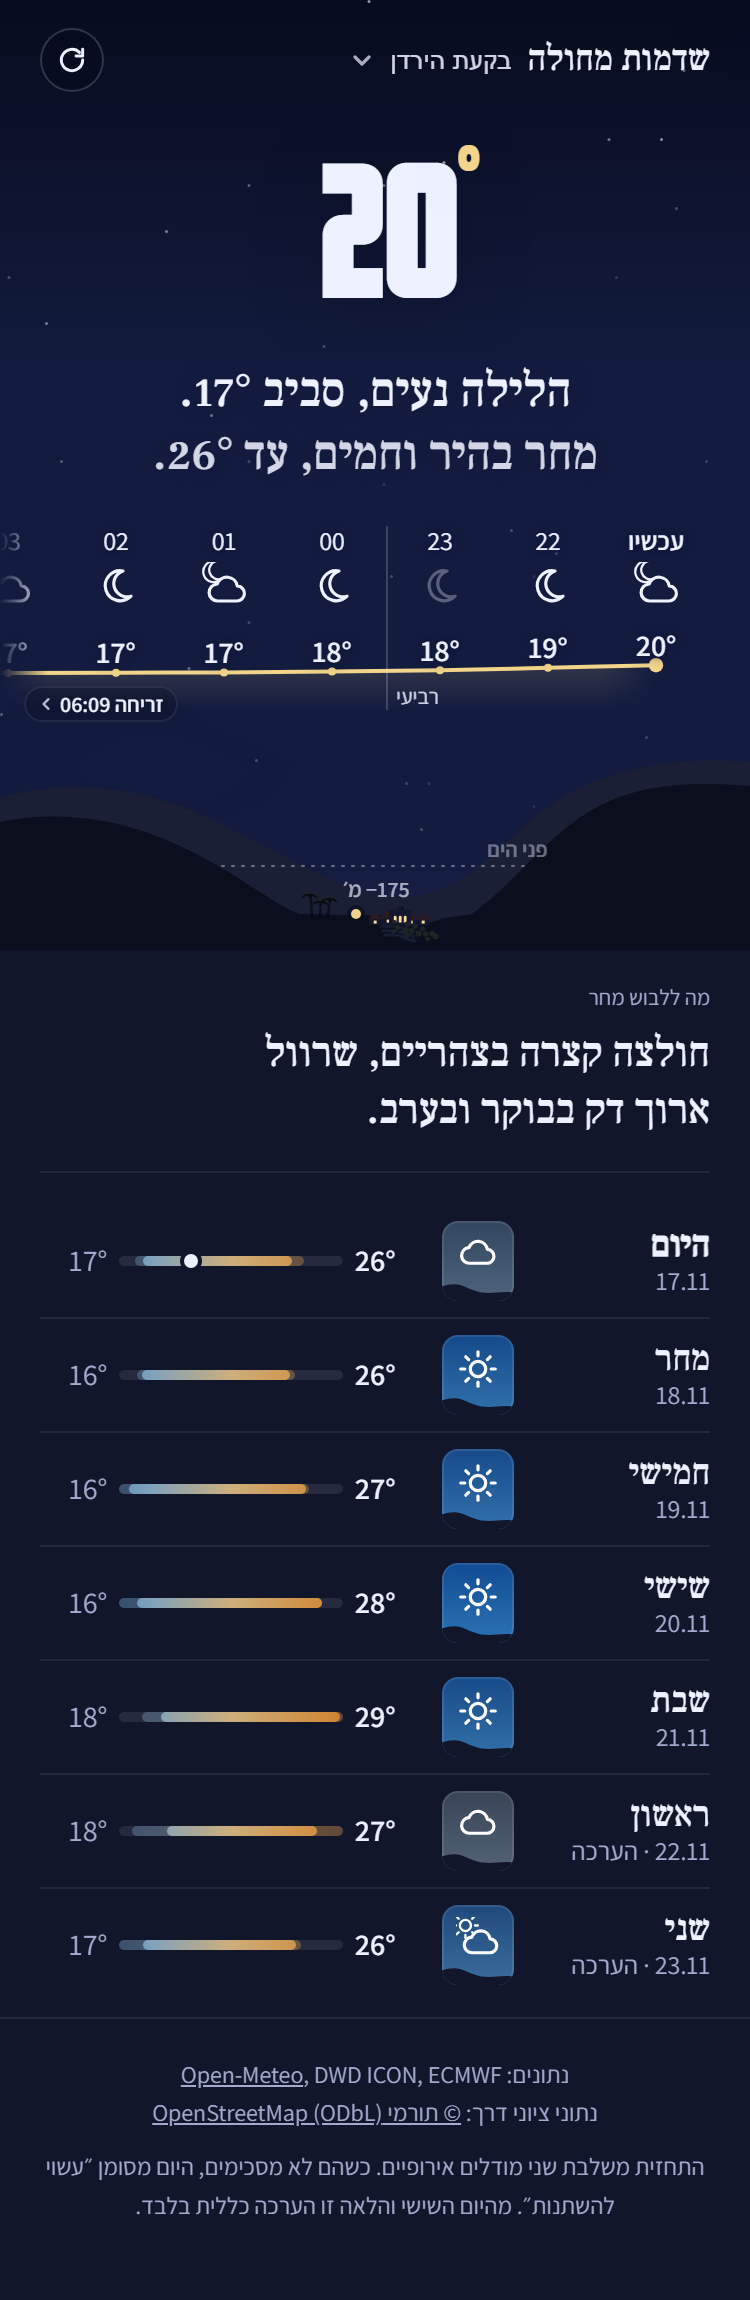
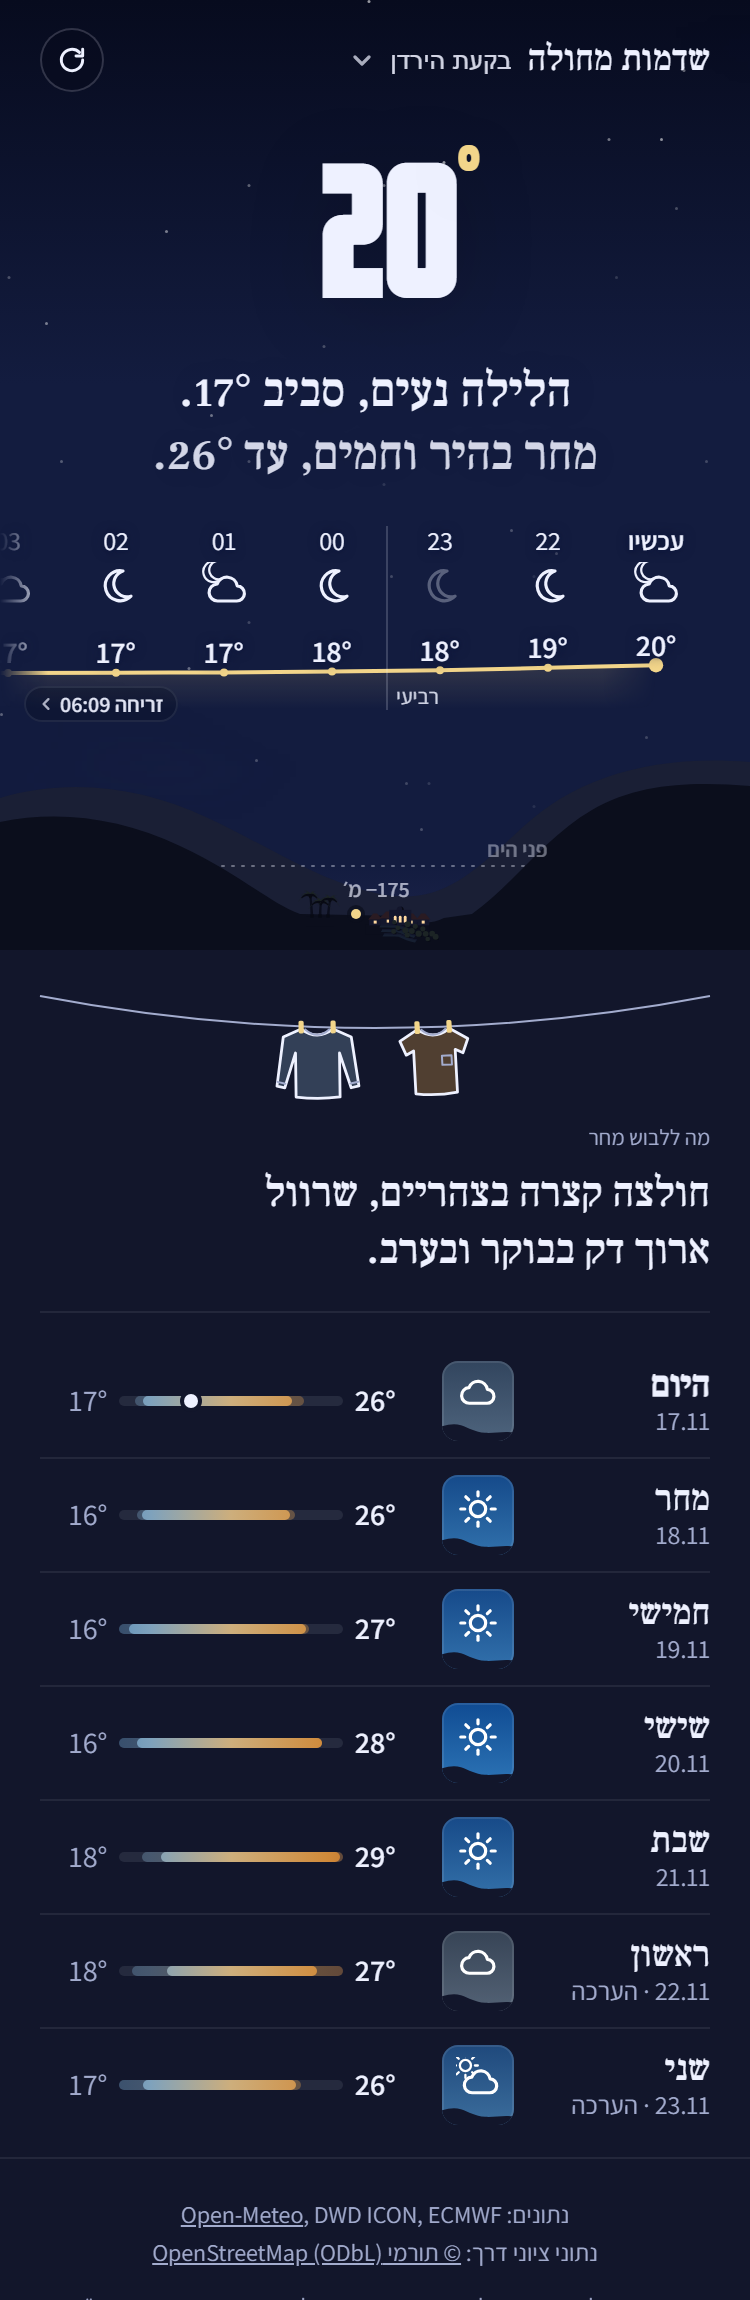
Wear card: the day's clothes pegged on a clothesline, blown by the day's wind
- wear.ts: WearTip gains garments (midday layer, cooler-hours layer, umbrella / rain jacket / sun hat /
  water, in the sentence's order) and daytime wind (max km/h, screen drift from today's direction)
- ui/wear/garments.tsx: hand-drawn tee, thin long sleeve, knit sweater, zip jacket, long coat, furled
  umbrella on its crook, hooded rain jacket, sun hat, bottle; each with its own cloth colour
- ui/wear/WearLine.tsx: a sagging line, clothes tilt with it; hems blow out downwind (skew, pegs stay on the
  line), hooked things swing; sway quickens with wind; still under reduced motion
- Dev specimen docs/design/qa/wear-specimen.html + still

diff --git a/src/ui/wear/garments.tsx b/src/ui/wear/garments.tsx
@@ -1,0 +1,138 @@
+import type { ReactNode } from 'react'
+import type { Garment } from '../../text/wear'
+
+/**
+ * Hand-drawn garments as they hang on a line. Local coords: (0, 0) is where the line passes, things hang down
+ * (y grows). Each entry lists its peg points so the pegs sit on the cloth, not in the air.
+ */
+export interface Hanging {
+  body: ReactNode
+  pegs: number[]
+  /** Cloth colour, washed into the paper (light or dark) at a low share. */
+  cloth: string
+  /** Hangs by a hook (umbrella, bottle): no pegs, the line passes through the hook. */
+  hook?: boolean
+}
+
+const NECK = 'M-6 1.2Q0 6.5 6 1.2'
+
+export const GARMENTS: Record<Garment, Hanging> = {
+  // Short sleeves stick out, a chest pocket; the neck dips where the pegs pull the shoulders.
+  tee: {
+    cloth: '#E0A040',
+    pegs: [-8, 8],
+    body: (
+      <>
+        <path d="M-8 1L-17 6.5-14.2 13.5-10.4 11.6V33Q0 34.6 10.4 33V11.6L14.2 13.5 17 6.5 8 1Q0 7-8 1Z" />
+        <path d={NECK} className="seam" />
+        <path d="M3.6 14.5h4.8v4.6h-4.8z" className="seam" />
+      </>
+    ),
+  },
+  // Thin long sleeve: the sleeves fall straight down beside the body, narrow cuffs.
+  longSleeve: {
+    cloth: '#7FA2BC',
+    pegs: [-8, 8],
+    body: (
+      <>
+        <path d="M-8 1L-17 5-20.5 29.5-16.6 30.4-11 13V35Q0 36.4 11 35V13L16.6 30.4 20.5 29.5 17 5 8 1Q0 7-8 1Z" />
+        <path d={NECK} className="seam" />
+        <path d="M-20.2 27.4l3.9.9M20.2 27.4l-3.9.9" className="seam" />
+      </>
+    ),
+  },
+  // Knit sweater: rounder, heavier, ribbed hem and cuffs, a double crew neck.
+  sweater: {
+    cloth: '#B0543A',
+    pegs: [-8.5, 8.5],
+    body: (
+      <>
+        <path d="M-8.5 1Q-15 2.5-18 7L-21 29.6-16 31-12 15V35.5Q0 37.5 12 35.5V15L16 31 21 29.6 18 7Q15 2.5 8.5 1Q0 7.5-8.5 1Z" />
+        <path d={NECK} className="seam" />
+        <path d="M-7.2 2.6Q0 9 7.2 2.6" className="seam" />
+        <path d="M-12 32.4Q0 34.4 12 32.4M-8 33.4v2.8M-4 33.8v2.9M0 34v3M4 33.8v2.9M8 33.4v2.8" className="seam" />
+        <path d="M-20.6 26.8l4.5 1.4M20.6 26.8l-4.5 1.4" className="seam" />
+      </>
+    ),
+  },
+  // Zip jacket: stand collar, a zip down the middle, two slanted pockets.
+  jacket: {
+    cloth: '#2C6E7F',
+    pegs: [-8.5, 8.5],
+    body: (
+      <>
+        <path d="M-8.5 1L-18 5.5-21 30-16.6 31-12.4 14V36H12.4V14L16.6 31 21 30 18 5.5 8.5 1-6 1Z" />
+        <path d="M-6 1L-5 -2H5L6 1" className="seam" />
+        <path d="M0 -2V36" className="seam" />
+        <path d="M-9.5 24l3.5-3M9.5 24l-3.5-3" className="seam" />
+      </>
+    ),
+  },
+  // Long coat: past the knees, lapels, two buttons, a belt.
+  coat: {
+    cloth: '#7A6650',
+    pegs: [-9, 9],
+    body: (
+      <>
+        <path d="M-9 1L-18.5 6-21.5 32-17 33-13 15V48.5H13V15L17 33 21.5 32 18.5 6 9 1Z" />
+        <path d="M-9 1L-2 14 0 22M9 1L2 14 0 22V48.5" className="seam" />
+        <path d="M-13 30H13" className="seam" />
+        <circle cx="-3" cy="25.5" r="1" className="dot" />
+        <circle cx="-3" cy="36" r="1" className="dot" />
+      </>
+    ),
+  },
+  // Closed umbrella hung by its crook: handle over the line, furled canopy, tip at the bottom.
+  umbrella: {
+    cloth: '#2A6AA8',
+    pegs: [],
+    hook: true,
+    body: (
+      <>
+        <path d="M-5 4.5A4.6 4.6 0 0 1 4.2 -1.5V8" className="seam strong" />
+        <path d="M4.2 8C-1.5 14-1.8 33 3.4 41.5 4 42.4 4.4 42.4 5 41.5 10.2 33 9.9 14 4.2 8Z" />
+        <path d="M4.2 11C2 18 2.3 31 4.2 38M4.2 11C6.6 20 7 29 5.6 36" className="seam" />
+        <path d="M4.2 42v3" className="seam strong" />
+      </>
+    ),
+  },
+  // Light rain jacket: a hood falling back behind the neck, drawstrings.
+  rainJacket: {
+    cloth: '#E8C230',
+    pegs: [-8.5, 8.5],
+    body: (
+      <>
+        <path d="M-8.5 1L-17.5 5.5-20 28-16 29-12 13V33.5Q0 35.5 12 33.5V13L16 29 20 28 17.5 5.5 8.5 1Z" />
+        <path d="M-7 2Q-6.5 13 0 13.5 6.5 13 7 2" className="seam" />
+        <path d="M-2.5 13.4v5.5M2.5 13.4v4.4" className="seam" />
+        <path d="M0 13.5V33.5" className="seam" />
+      </>
+    ),
+  },
+  // Sun hat pegged by its brim: wide brim, a band round the crown.
+  sunHat: {
+    cloth: '#CDAE7C',
+    pegs: [0],
+    body: (
+      <>
+        <path d="M-15 12.5Q-14 6.5 0 6.2 14 6.5 15 12.5 9 16.5 0 16.5-9 16.5-15 12.5Z" />
+        <path d="M-8 10.8Q-8.2 1.5 0 1.2 8.2 1.5 8 10.8" />
+        <path d="M-8 8.6Q0 10.6 8 8.6" className="seam" />
+        <path d="M0 6.2V1.2" className="seam" />
+      </>
+    ),
+  },
+  // Water bottle hanging by the loop of its cap; a line for the water inside.
+  water: {
+    cloth: '#7FD3EE',
+    pegs: [],
+    hook: true,
+    body: (
+      <>
+        <path d="M-2.4 3.8A3 3 0 1 1 2.4 3.8" className="seam strong" />
+        <path d="M-2.6 4H2.6V7.5Q6 9.5 6 13V30Q6 32 4 32H-4Q-6 32-6 30V13Q-6 9.5-2.6 7.5Z" />
+        <path d="M-6 17Q-3 15.8 0 17T6 17" className="seam" />
+      </>
+    ),
+  },
+}

diff --git a/src/text/wear.ts b/src/text/wear.ts
@@ -5,12 +5,15 @@ import { hoursBetween, nextDate, windowFacts } from './facts'
 
 /** Clothing levels, warmest first. Lower bounds in °C of the felt temperature. */
 const LEVELS = [
-  { from: 24, text: 'חולצה קצרה' },
-  { from: 19, text: 'שרוול ארוך דק' },
-  { from: 14, text: 'סוודר קל' },
-  { from: 9, text: 'סוודר או ז׳קט' },
-  { from: -Infinity, text: 'מעיל' },
+  { from: 24, text: 'חולצה קצרה', garment: 'tee' },
+  { from: 19, text: 'שרוול ארוך דק', garment: 'longSleeve' },
+  { from: 14, text: 'סוודר קל', garment: 'sweater' },
+  { from: 9, text: 'סוודר או ז׳קט', garment: 'jacket' },
+  { from: -Infinity, text: 'מעיל', garment: 'coat' },
 ] as const
+
+/** Things the sentence names, in its order, for the drawing beside it. */
+export type Garment = (typeof LEVELS)[number]['garment'] | 'umbrella' | 'rainJacket' | 'sunHat' | 'water'
 
 /** Wind makes it feel colder: knock off a couple of degrees when it is brisk. */
 const WIND_PENALTY = 2
@@ -19,6 +22,10 @@ export interface WearTip {
   /** "היום" / "מחר" — which day the advice is for. */
   when: string
   text: string
+  /** What the sentence names: the midday layer, the cooler-hours layer (if any), then extras. */
+  garments: Garment[]
+  /** Daytime wind for the drawing: strongest km/h, and screen drift −1…1 (+1 = blowing left → right, a westerly). */
+  wind: { speed: number; drift: number }
 }
 
 function levelFor(f: Forecast, date: LocalDate, fromHour: number, toHour: number): number | null {
@@ -45,6 +52,7 @@ export function wearTip(f: Forecast, now: LocalTime): WearTip | null {
   if (midday === null) return null
 
   const parts: string[] = []
+  const garments: Garment[] = [LEVELS[midday].garment]
   const cooler = [
     morning !== null && morning > midday ? 'בבוקר' : '',
     evening !== null && evening > midday ? 'בערב' : '',
@@ -54,15 +62,29 @@ export function wearTip(f: Forecast, now: LocalTime): WearTip | null {
     parts.push(`${LEVELS[midday].text} לכל היום.`)
   } else {
     parts.push(`${LEVELS[midday].text} בצהריים, ${LEVELS[coolest].text} ${cooler.join(' ו')}.`)
+    if (coolest !== midday) garments.push(LEVELS[coolest].garment)
   }
 
   const facts = windowFacts(f, `${date}T07:00`, `${date}T22:00`)
-  if (facts.rainProb >= T.rain.likely) parts.push('קחו מטרייה.')
-  else if (facts.rainProb >= T.rain.possible) parts.push('כדאי מעיל גשם קל בתיק.')
+  if (facts.rainProb >= T.rain.likely) {
+    parts.push('קחו מטרייה.')
+    garments.push('umbrella')
+  } else if (facts.rainProb >= T.rain.possible) {
+    parts.push('כדאי מעיל גשם קל בתיק.')
+    garments.push('rainJacket')
+  }
   const uv = (f.air ?? []).filter((a) => a.time.startsWith(date)).map((a) => a.uv ?? 0)
   const maxTemp = Math.max(...facts.hours.map((h) => h.temperature))
-  if (maxTemp >= T.dayTemp.hot) parts.push('בגדים בהירים, כובע והרבה מים.')
-  else if (uv.length && Math.max(...uv) >= 8 && midday === 0) parts.push('כובע וקרם הגנה בצהריים.')
+  if (maxTemp >= T.dayTemp.hot) {
+    parts.push('בגדים בהירים, כובע והרבה מים.')
+    garments.push('sunHat', 'water')
+  } else if (uv.length && Math.max(...uv) >= 8 && midday === 0) {
+    parts.push('כובע וקרם הגנה בצהריים.')
+    garments.push('sunHat')
+  }
 
-  return { when: date === today ? 'היום' : 'מחר', text: parts.join(' ') }
+  const speed = Math.max(0, ...facts.hours.map((h) => h.windSpeed))
+  // Hours carry no direction: today uses the current wind, tomorrow the afternoon sea breeze (a westerly).
+  const drift = date === today ? -Math.sin((f.current.windDirection * Math.PI) / 180) : 1
+  return { when: date === today ? 'היום' : 'מחר', text: parts.join(' '), garments, wind: { speed, drift } }
 }

diff --git a/src/ui/wear/WearLine.tsx b/src/ui/wear/WearLine.tsx
@@ -1,0 +1,45 @@
+import type { CSSProperties } from 'react'
+import type { WearTip } from '../../text/wear'
+import { GARMENTS } from './garments'
+import styles from './WearLine.module.css'
+
+const W = 335
+const H = 62
+const END_Y = 7
+const SAG = 16
+const STEP = 58
+
+/** Height of the sagging line at x (a quadratic from end to end, deepest in the middle). */
+const lineY = (x: number) => END_Y + 4 * SAG * (x / W) * (1 - x / W)
+
+/** Today's clothes pegged on a line strung across the card, in the order the sentence names them (RTL: first on the
+ *  right). A line, not a row of icons: it sags, the clothes tilt with it. Decorative; the sentence carries the words. */
+export function WearLine({ garments, wind }: Pick<WearTip, 'garments' | 'wind'>) {
+  const n = garments.length
+  // Still below ~8 km/h; by ~38 km/h the clothes stand out at 24° downwind and flap faster.
+  const blow = Math.min(1, Math.max(0, (wind.speed - 8) / 30))
+  const lean = 24 * blow * wind.drift
+  const air = { '--sway-dur': `${(7 - 4.5 * blow).toFixed(1)}s`, '--sway-amp': `${(1.2 + 3 * blow).toFixed(1)}deg` } as CSSProperties
+  const first = W / 2 + ((n - 1) * STEP) / 2
+  return (
+    <svg className={styles.line} viewBox={`0 0 ${W} ${H}`} style={air} aria-hidden="true">
+      <path className={styles.rope} d={`M0 ${END_Y}Q${W / 2} ${END_Y + 2 * SAG} ${W} ${END_Y}`} />
+      {garments.map((g, i) => {
+        const x = first - i * STEP
+        const y = lineY(x)
+        const tilt = (Math.atan((4 * SAG * (1 - (2 * x) / W)) / W) * 180) / Math.PI
+        const item = GARMENTS[g]
+        // Pegged cloth keeps its top on the line and its hem blows out (skew); hooked things swing (rotate).
+        const blown = item.hook ? `rotate(${(-lean).toFixed(1)})` : `skewX(${lean.toFixed(1)})`
+        return (
+          <g key={g} transform={`translate(${x.toFixed(1)} ${y.toFixed(1)}) rotate(${(tilt * 0.6).toFixed(1)}) ${blown}`}>
+            <g className={styles.item} style={{ animationDelay: `${-i * 0.7}s`, '--cloth': item.cloth } as CSSProperties}>
+              {item.body}
+              {item.pegs.map((px) => <rect key={px} className={styles.peg} x={px - 1.3} y={-3.2} width={2.6} height={6.4} rx={0.8} />)}
+            </g>
+          </g>
+        )
+      })}
+    </svg>
+  )
+}

diff --git a/src/ui/wear/WearLine.module.css b/src/ui/wear/WearLine.module.css
@@ -1,0 +1,60 @@
+.line {
+  display: block;
+  width: 100%;
+  max-width: 335px;
+  height: auto;
+  margin: 0 auto var(--space-2);
+  overflow: visible;
+}
+
+.rope {
+  fill: none;
+  stroke: var(--sheet-muted);
+  stroke-width: 1;
+}
+
+/* Cloth: paper-filled so the line passes behind it, outlined in ink; seams in a thinner muted line. */
+.item path,
+.item circle {
+  fill: color-mix(in srgb, var(--cloth) 30%, var(--sheet));
+  stroke: var(--sheet-ink);
+  stroke-width: 1.4;
+  stroke-linejoin: round;
+  stroke-linecap: round;
+}
+
+.item :global(.seam) {
+  fill: none;
+  stroke: var(--sheet-muted);
+  stroke-width: 1;
+}
+
+.item :global(.seam.strong) {
+  stroke: var(--sheet-ink);
+  stroke-width: 1.4;
+}
+
+.item :global(.dot) {
+  fill: var(--sheet-ink);
+  stroke: none;
+}
+
+.peg {
+  fill: var(--sheet-accent);
+}
+
+/* Cloth sways on the line, each item out of phase: slow in still air, quicker and wider in wind. */
+.item {
+  transform-box: fill-box;
+  transform-origin: 50% 0; /* swing from the line */
+  animation: sway var(--sway-dur, 7s) var(--ease-in-out) infinite alternate;
+}
+
+@keyframes sway {
+  from { rotate: calc(-1 * var(--sway-amp, 1.2deg)); }
+  to { rotate: var(--sway-amp, 1.2deg); }
+}
+
+@media (prefers-reduced-motion: reduce) {
+  .item { animation: none; }
+}

diff --git a/docs/design/qa/wear-specimen.tsx b/docs/design/qa/wear-specimen.tsx
@@ -1,0 +1,26 @@
+// Dev-only: every garment on the line, light and dark paper, at 2x. /docs/design/qa/wear-specimen.html
+import { createRoot } from 'react-dom/client'
+import '../../../src/ui/tokens.css'
+import { themeVars } from '../../../src/theme/skyThemes'
+import type { Garment } from '../../../src/text/wear'
+import { WearLine } from '../../../src/ui/wear/WearLine'
+
+const SETS: [Garment[], number][] = [
+  [['tee', 'sunHat', 'water'], 5],
+  [['longSleeve', 'sweater'], 18],
+  [['jacket', 'coat', 'umbrella'], 40],
+  [['sweater', 'rainJacket'], 28],
+]
+
+// oxlint-disable-next-line react/only-export-components -- dev-only specimen page
+function Paper({ theme }: { theme: 'clearDay' | 'night' }) {
+  return (
+    <div className={`zoom ${theme === 'night' ? 'dark-sheet' : ''}`} style={themeVars(theme)}>
+      {SETS.map(([g, speed]) => (
+        <div key={g.join()} className="sheet"><WearLine garments={g} wind={{ speed, drift: 1 }} /></div>
+      ))}
+    </div>
+  )
+}
+
+createRoot(document.getElementById('root')!).render(<div style={{ display: 'flex', alignItems: 'flex-start' }}><Paper theme="clearDay" /><Paper theme="night" /></div>)

diff --git a/src/text/wear.test.ts b/src/text/wear.test.ts
@@ -10,12 +10,15 @@ describe('wearTip', () => {
     const tip = wearTip(f, at('08:00'))
     expect(tip?.when).toBe('היום')
     expect(tip?.text).toBe('חולצה קצרה לכל היום. בגדים בהירים, כובע והרבה מים.')
+    expect(tip?.garments).toEqual(['tee', 'sunHat', 'water'])
   })
 
   it('winter day: warmer midday, sweater in the evening', () => {
     const f = makeForecast([{ max: 20, min: 9 }, { max: 21, min: 8 }, { max: 20, min: 9 }])
     const tip = wearTip(f, at('08:00'))
     expect(tip?.text).toMatch(/^שרוול ארוך דק בצהריים, .+ בבוקר ובערב\.$/)
+    expect(tip?.garments[0]).toBe('longSleeve')
+    expect(tip?.garments).toHaveLength(2)
   })
 
   it('switches to tomorrow in the afternoon', () => {
@@ -30,6 +33,7 @@ describe('wearTip', () => {
       { max: 18, min: 10 },
     ])
     expect(wearTip(f, at('08:00'))?.text).toContain('קחו מטרייה.')
+    expect(wearTip(f, at('08:00'))?.garments).toContain('umbrella')
   })
 
   it('brisk wind feels colder', () => {

diff --git a/src/ui/WearCard.tsx b/src/ui/WearCard.tsx
@@ -1,11 +1,13 @@
 import type { WearTip } from '../text/wear'
 import styles from './WearCard.module.css'
+import { WearLine } from './wear/WearLine'
 
 /** One-line clothing advice for the rest of today, or tomorrow. */
 export function WearCard({ tip }: { tip: WearTip | null }) {
   if (!tip) return null
   return (
     <section className={styles.card} aria-labelledby="wear-title">
+      <WearLine garments={tip.garments} wind={tip.wind} />
       <h2 id="wear-title" className={styles.title}>מה ללבוש {tip.when}</h2>
       <p className={styles.text}>{tip.text}</p>
     </section>

diff --git a/docs/design/qa/wear-specimen.html b/docs/design/qa/wear-specimen.html
@@ -1,0 +1,7 @@
+<!doctype html>
+<html lang="he">
+<head><meta charset="utf-8"><meta name="viewport" content="width=device-width"><title>Wear line specimens</title>
+<style>body{margin:0;font:12px system-ui}.sheet{direction:rtl;padding:12px 20px;width:335px;background:var(--sheet);color:var(--sheet-ink)}
+.zoom{zoom:2}</style></head>
+<body><div id="root"></div><script type="module" src="./wear-specimen.tsx"></script></body>
+</html>
